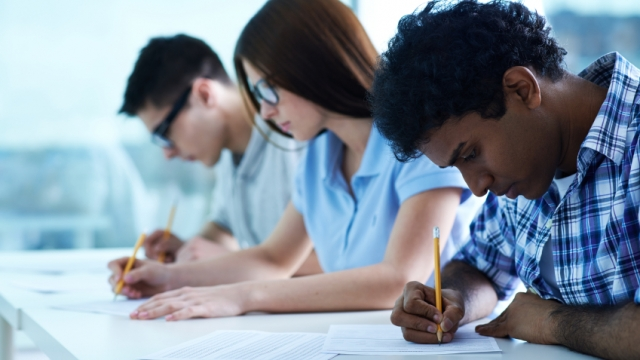
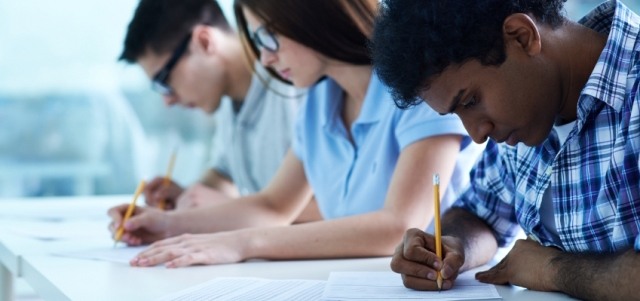
main page

diff --git a/Milestone_3/index.html b/Milestone_3/index.html
@@ -4,7 +4,7 @@
     <meta charset="utf-8" name="viewport" content="width=device-width, initial-scale=1.0"/>
     
     <link rel="stylesheet/less" type="text/css" href="css/global.less">
-    <link href='https://fonts.googleapis.com/css?family=Open+Sans:400,400italic,600,300' rel='stylesheet' type='text/css'>
+    <link href='https://fonts.googleapis.com/css?family=Open+Sans:400,400italic,600,300,300italic' rel='stylesheet' type='text/css'>
     <script src="js/jquery-1.11.3.min.js"></script>
     <script src="js/less.js"></script>
     <script src="js/global.js"></script>    
@@ -13,28 +13,63 @@
 <body>
     <div id="header"></div>
     <div class=content>
-    
-    <div style="text-align:center">
-    <a href="examschedule.html"><img class="imgcontainer" src="/images/writeexam.png" alt="WriteExam">
-        <p class="overlaytext"><strong><font size="24">Its Exam Season!<br> Check your Schedule!</font></strong></p></a>
-    </div>
-        <br>
-    <div class="col3 thinborder">
-        <strong>ENROLL</strong>
-    </div>
-        
-    <div class="spacer">&nbsp;</div>
-        
-    <div class="col3 thinborder" >
-        <strong>SCHEDULE</strong>
-    </div>
-                
-    <div class="spacer">&nbsp;</div>
+        <div class="banner-image-container">
+            <img class="full-width-image" src="images/writeexam.png">
+            <div class="overlay-text-container">
+                <h2 style="font-size: 42px; margin-bottom: -10px; font-weight: 600;">Exam Season</h2>
+                <h2 style="font-size: 22px; margin-bottom: 10px;"><em>Check your exam schedule here.</em></h2>
+                <a class="ghost-button highlighted-button ghost-button-big" href="examschedule.html">View Exam Schedule</a>
+            </div>
+        </div>
 
-        
-    <div class="col3 thinborder">
-        <strong>COURSES</strong>
-    </div>
-    
+        <div class="col-2" style="padding-right: 20px;">
+            <div class="main-page-card">
+                <h2 class="main-page-card-heading">Enroll / Drop</h2>
+                <a href="searchcourses.html" class="ghost-button">Search Courses</a>
+                <a href="enroll.html" class="ghost-button">Enroll/Drop</a>
+                
+                <p style="margin-top: 30px;">Wishlist:</p>
+                <table class="main-page-course-table" id="main-page-wishlist-table">
+                    <tr class="main-page-course-table-row">
+                        <td class="main-page-course-table-cell">
+                            <a href="" class="main-page-course-link"><strong>COMP SCI 1XX3</strong></a>
+                            <p>Introduction to Programming</p>
+                        </td>
+                    </tr>
+                    <tr class="main-page-course-table-row">
+                        <td class="main-page-course-table-cell">
+                            <a href="" class="main-page-course-link"><strong>COMP SCI 1XX3</strong></a>
+                            <p>Introduction to Programming</p>
+                        </td>
+                    </tr>
+                </table>
+            </div>
+        </div>
+
+        <div class="col-2">
+            <div class="main-page-card">
+                <h2 class="main-page-card-heading">Schedule</h2>
+                <a href="searchcourses.html" class="ghost-button">Weekly Schedule</a>
+                <a href="enroll.html" class="ghost-button">Exam Schedule</a>
+                
+                <p style="margin-top: 30px;">Enrolled Courses:</p>
+                <table class="main-page-course-table" id="main-page-wishlist-table">
+                    <tr class="main-page-course-table-row">
+                        <td class="main-page-course-table-cell">
+                            <a href="" class="main-page-course-link"><strong>COMP SCI 1XX3</strong></a>
+                            <p>Introduction to Programming</p>
+                        </td>
+                    </tr>
+                    <tr class="main-page-course-table-row">
+                        <td class="main-page-course-table-cell">
+                            <a href="" class="main-page-course-link"><strong>COMP SCI 1XX3</strong></a>
+                            <p>Introduction to Programming</p>
+                        </td>
+                    </tr>
+                </table>
+            </div>
+        </div>
+
+        <div style="clear: both;"></div>
     </div>
 </body>

diff --git a/Milestone_3/css/global.less b/Milestone_3/css/global.less
@@ -148,13 +148,7 @@ body {
     margin-top: 40px;
 }
 .imgcontainer {
-    position:relative;
-
-
-
-    width:50%;
-    top:5px
-
+    width: 100%;
 }
 .overlaytext {
     position:absolute;
@@ -164,8 +158,13 @@ body {
     padding:4px;
     text-align: left;
 }
-
-
+.full-width-image {
+    width: 100%;
+}
+.col-2 {
+    width: 50%;
+    float: left;
+}
 .col3{
     width:30%;
     height:200px;
@@ -721,9 +720,6 @@ body {
     background-color: #f3b8f8;
 }
 
-
-
-
 /***********************************************
 * Courses table 
 ***********************************************/
@@ -881,4 +877,52 @@ body {
     background-color: @background-gray;
     cursor: default;
 }
+
+/***********************************************
+* Main page 
+***********************************************/
+
+.overlay-text-container {
+    position: absolute;
+    display: block;
+    bottom: 60px;
+    left: 40px;
+    text-align: left;
+}
+.banner-image-container {
+    position: relative;
+    width: 100%;
+    margin-bottom: 40px;
+}
+.main-page-card {
+    background-color: @background-gray;
+    border: @background-gray-border;
+    height: 400px;
+    padding: 15px;
+}
+.main-page-card-heading {
+    font-size: 26px;
+    font-weight: 600;
+    text-align: center;
+    margin-bottom: 10px;
+}
+.main-page-course-table {
+    border: @background-gray-border;
+    text-align: left;
+    width: 100%;
+}
+.main-page-course-table-row {
+    border: 1px solid @background-gray-border-color;
+    text-align: left;
+    width: 100%;
+}
+.main-page-course-link {
+    text-align: left;
+    color: @maroon;
+    text-decoration: underline;
+}
+.main-page-course-link:hover {
+    color: @maroon-hover;
+}
+
 

diff --git a/Milestone_3/js/global.js b/Milestone_3/js/global.js
@@ -26,6 +26,8 @@ $(document).ready(function () {
         loadExamHtml();
     } else if (window.location.href.indexOf('viewschedule.html') > -1) {
         loadWeeklyScheduleHtml();
+    } else if (window.location.href.indexOf('index.html') > -1) {
+        loadHomePageCoursesHtml();
     }
     
     // clear cached searches if navigate away from enroll/search pages
@@ -915,6 +917,10 @@ function formattedCourseString(courseId, lecture, tutorial, lab) {
         lab = 'L00'
     }
     return (courseId + '-' + lecture + '-' + tutorial + '-' + lab);
+}
+
+function loadHomePageCoursesHtml() {
+
 }
 
 function getWishlistCourses() {
